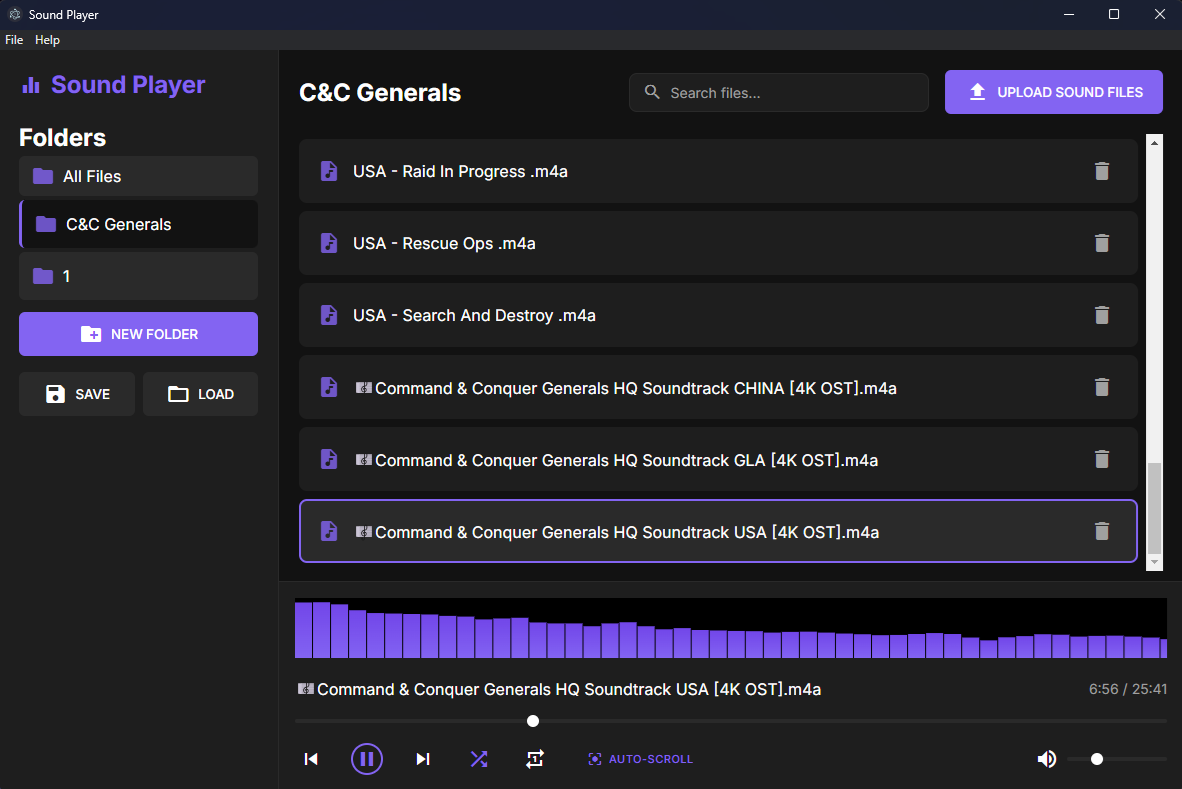
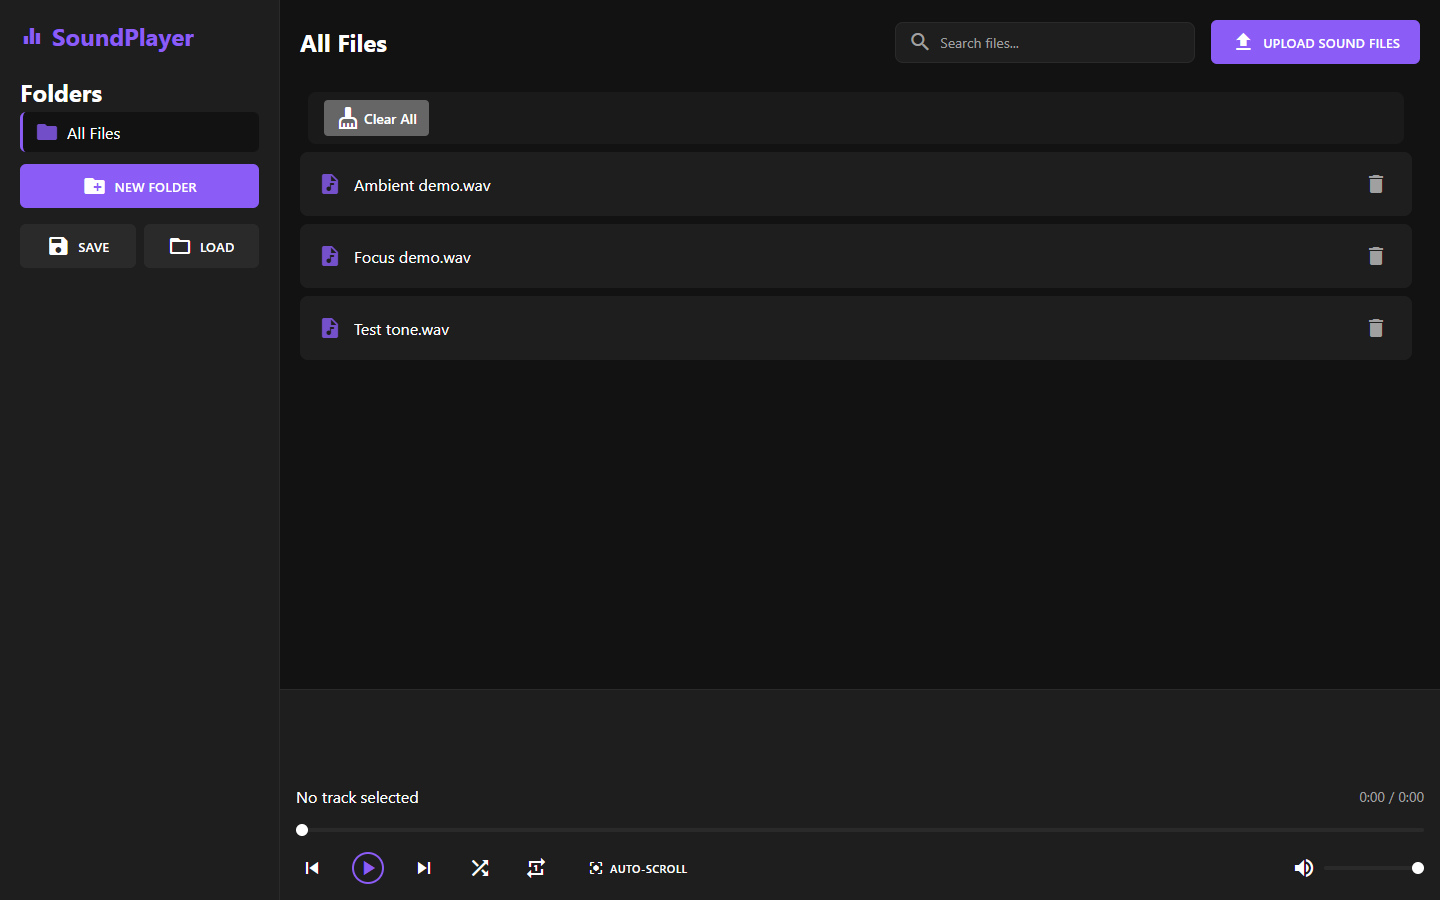
Rename repository and desktop branding to SoundPlayer (#6)

diff --git a/main.js b/main.js
@@ -3,6 +3,10 @@ const path = require('path');
 const { pathToFileURL } = require('node:url');
 const { FileAccess } = require('./file-access');
 const access = new FileAccess();
+// Keep the existing library profile while updating the visible application name.
+const existingUserData = app.getPath('userData');
+app.setName('SoundPlayer');
+app.setPath('userData', existingUserData);
 if (process.env.SOUNDPLAYER_TEST_PROFILE) app.setPath('userData', process.env.SOUNDPLAYER_TEST_PROFILE);
 const trustedURL = pathToFileURL(path.join(__dirname, 'index.html')).href;
 
@@ -56,7 +60,7 @@ function createMenu() {
             label: 'Help',
             submenu: [
                 {
-                    label: 'About Sound Player',
+                    label: 'About SoundPlayer',
                     click: () => {
                         showAboutDialog();
                     }
@@ -71,7 +75,7 @@ function createMenu() {
             label: app.getName(),
             submenu: [
                 {
-                    label: 'About Sound Player',
+                    label: 'About SoundPlayer',
                     click: () => {
                         showAboutDialog();
                     }
@@ -88,7 +92,7 @@ function createMenu() {
         });
 
         // Remove About from Help menu on macOS since it's in the app menu
-        template[2].submenu = template[2].submenu.filter(item => item.label !== 'About Sound Player');
+        template[2].submenu = template[2].submenu.filter(item => item.label !== 'About SoundPlayer');
     }
 
     const menu = Menu.buildFromTemplate(template);
@@ -98,9 +102,9 @@ function createMenu() {
 function showAboutDialog() {
     dialog.showMessageBox({
         type: 'info',
-        title: 'About Sound Player',
-        message: 'Sound Player',
-        detail: `Version: ${app.getVersion()}\n\nA modern audio player with spectrum visualization and library management.\n\nCreated by @AntDX316\nTwitter/X: https://x.com/AntDX316\n\nBuilt with Electron and Web Technologies\n\nÂ© 2024 Sound Player`,
+        title: 'About SoundPlayer',
+        message: 'SoundPlayer',
+        detail: `Version: ${app.getVersion()}\n\nA modern audio player with spectrum visualization and library management.\n\nCreated by @AntDX316\nTwitter/X: https://x.com/AntDX316\n\nBuilt with Electron and Web Technologies\n\n© 2024 SoundPlayer`,
         buttons: ['OK'],
         defaultId: 0
     });

diff --git a/index.html b/index.html
@@ -4,14 +4,14 @@
     <meta charset="utf-8">
     <meta name="viewport" content="width=device-width, initial-scale=1">
     <meta http-equiv="Content-Security-Policy" content="default-src 'self'; script-src 'self'; style-src 'self' 'unsafe-inline'; font-src 'self'; media-src 'self' blob:; img-src 'self' data: blob:; connect-src 'self'; object-src 'none'; base-uri 'none'; form-action 'none'">
-    <title>Sound Player</title>
+    <title>SoundPlayer</title>
     <link href="node_modules/@fontsource/material-icons/index.css" rel="stylesheet">
     <link href="styles.css" rel="stylesheet">
 </head>
 <body>
     <div class="app-container">
         <div class="sidebar">
-            <h1><span class="material-icons">equalizer</span> Sound Player</h1>
+            <h1><span class="material-icons">equalizer</span> SoundPlayer</h1>
             <div class="folders-section">
                 <h2>Folders</h2>
                 <div id="folders"></div>

diff --git a/README.md b/README.md
@@ -1,18 +1,22 @@
-# Sound Player 🎵
+# SoundPlayer 🎵
 
 [![License: Apache 2.0](https://img.shields.io/badge/License-Apache%202.0-blue.svg)](https://opensource.org/licenses/Apache-2.0)
 [![Electron](https://img.shields.io/badge/Electron-Latest-blue.svg)](https://www.electronjs.org/)
 [![Node.js](https://img.shields.io/badge/Node.js-v24+-green.svg)](https://nodejs.org/)
 
-Sound Player is a sleek, modern audio player that brings your music to life with stunning spectrum visualization.
+SoundPlayer is a sleek, modern audio player that brings your music to life with stunning spectrum visualization.
 
 This cross-platform application offers intuitive playlist management, smart folder organization, and essential playback features like shuffle and repeat.
 
-With its beautiful dark theme interface and responsive design, Sound Player makes managing and enjoying your music collection a breeze.
+With its beautiful dark theme interface and responsive design, SoundPlayer makes managing and enjoying your music collection a breeze.
 
-Whether you're organizing your library, creating custom playlists, or just enjoying your favorite tracks with crystal-clear audio playback, Sound Player provides all the tools you need in an elegant, easy-to-use package.
+Whether you're organizing your library, creating custom playlists, or just enjoying your favorite tracks with crystal-clear audio playback, SoundPlayer provides all the tools you need in an elegant, easy-to-use package.
 
-![Sound Player Screenshot](screenshot.png)
+![SoundPlayer Screenshot](screenshot.png)
+
+## Version 1.1.1
+
+Renamed the repository and desktop branding to SoundPlayer. Existing library profiles and installer identity are preserved.
 
 ## Version 1.1 improvements
 
@@ -72,8 +76,8 @@ Integration tests use isolated temporary profiles, never your normal library. Th
 
 ```bash
 # Clone the repository
-git clone https://github.com/AntDX316/SoundPlayer-Cursor.git
-cd SoundPlayer-Cursor
+git clone https://github.com/AntDX316/SoundPlayer.git
+cd SoundPlayer
 
 # Install dependencies
 npm install
@@ -170,5 +174,5 @@ This project is licensed under the Apache License 2.0 - see the [LICENSE](LICENS
 
 ## 🙏 Acknowledgments
 
-- Thanks to all contributors who have helped shape Sound Player
+- Thanks to all contributors who have helped shape SoundPlayer
 - Built with [Electron](https://www.electronjs.org/)

diff --git a/CLAUDE.md b/CLAUDE.md
@@ -18,7 +18,7 @@ This file provides guidance to Claude Code (claude.ai/code) when working with co
 
 ## Architecture
 
-Sound Player is an Electron-based desktop audio player with the following structure:
+SoundPlayer is an Electron-based desktop audio player with the following structure:
 
 - **main.js** - Electron main process, handles window creation, native dialogs, file I/O via IPC
 - **index.html** - Main UI structure with sidebar (folders/controls) and main content area
